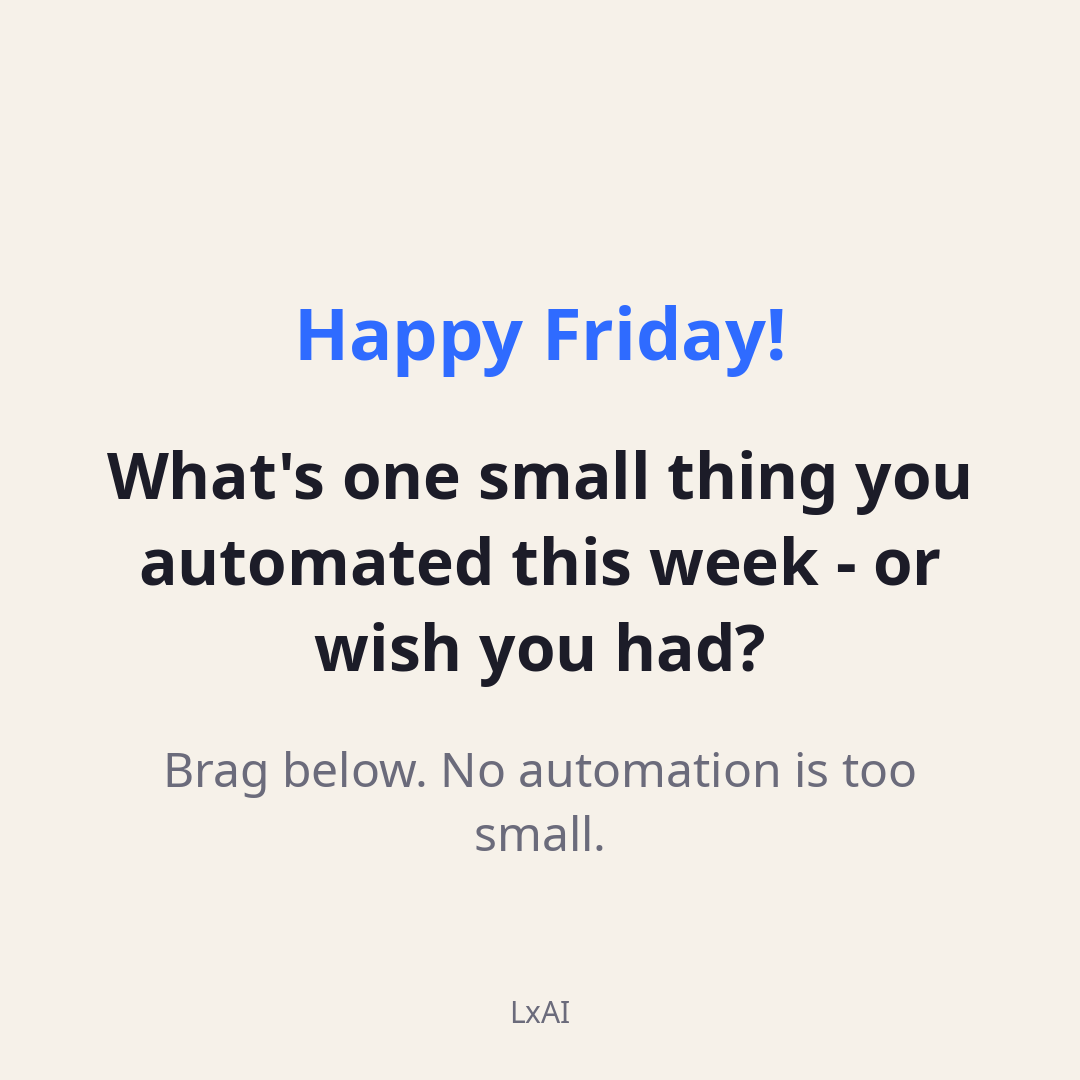
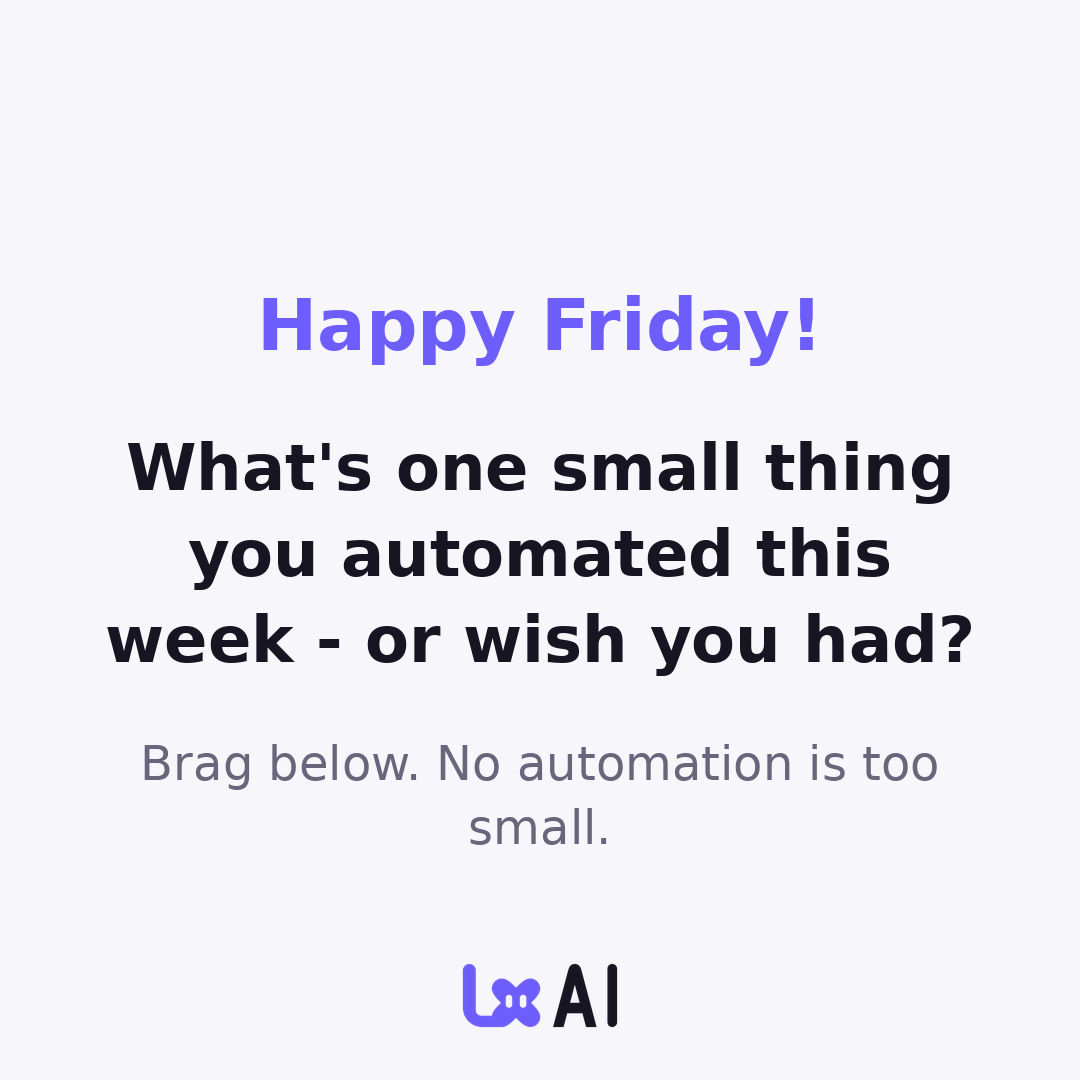
fix(social): rebuild Week-1 visuals with approved LxAI Fuse brand kit (LXA-131)

diff --git a/lxai/instagram/week1/gen_visuals.py b/lxai/instagram/week1/gen_visuals.py
@@ -1,28 +1,70 @@
 #!/usr/bin/env python3
-"""Generate Week-1 draft visual assets for @l.x.ai per the approved specs
-in LXA-126 'week-1-drafts' document. Drafts for board review only."""
-import os
-from PIL import Image, ImageDraw, ImageFont
+"""Regenerate the approved Week-1 draft visuals for @l.x.ai using the
+approved LxAI Fuse brand kit (design/lxai-brand-kit).
 
-OUT = os.environ.get("PAPERCLIP_RUN_SCRATCH_DIR", "/tmp/opencode") + "/visuals"
+Copy, layouts and canvas sizes stay exactly as approved in LXA-126
+'week-1-drafts'. Only the identity changes: supplied logo artwork plus the
+approved Fuse palette replace the placeholder wordmark and blue accent.
+
+Brand rules applied (from design/lxai-brand-kit/docs/brand-guidelines.md):
+  - logo artwork is used as supplied (never redrawn), scaled uniformly
+  - colour logo on White/Paper, white logo on solid Violet, dark logo on Ink
+  - body copy is Ink on light backgrounds; Violet is reserved for the logo
+    and large headings (Violet-on-Paper is 4.194:1)
+  - White-on-Violet stays at full opacity (4.509:1)
+  - the supplied canvases carry their own clear space; no text is placed
+    inside the logo area
+"""
+import os
+from PIL import Image
+
+SCRATCH = os.environ.get("PAPERCLIP_RUN_SCRATCH_DIR", "/tmp/opencode")
+OUT = SCRATCH + "/visuals-brand"
+BRAND = os.environ.get(
+    "LXAI_BRANDKIT",
+    "/home/x/work/startup/lxai/design/lxai-brand-kit/digital/png",
+)
 os.makedirs(OUT, exist_ok=True)
 
-BG = (246, 241, 233)        # warm off-white
-INK = (28, 28, 40)          # near-black ink
-MUTED = (107, 107, 123)
-ACCENT = (47, 107, 255)     # electric blue
-ACCENT_SOFT = (230, 237, 255)
-PANEL = (255, 252, 247)
+# ---- approved Fuse palette -------------------------------------------------
+PAPER = (247, 246, 251)   # #F7F6FB
+INK = (24, 21, 34)        # #181522
+VIOLET = (109, 94, 252)   # #6D5EFC
+LILAC = (169, 154, 255)   # #A99AFF
+LILAC_SOFT = (231, 228, 254)  # tint of Dark Lilac for quiet option fields
+WHITE = (255, 255, 255)
+MUTED = (105, 101, 122)   # quiet label grey derived from Ink
+LINE_SOFT = (226, 224, 238)
+PANEL_EDGE = LILAC
 
-BOLD = "/usr/share/fonts/truetype/noto/NotoSans-Bold.ttf"
-REG = "/usr/share/fonts/truetype/noto/NotoSans-Regular.ttf"
-if not os.path.exists(BOLD):
+try:
+    from PIL import ImageDraw, ImageFont
     BOLD = "/usr/share/fonts/truetype/dejavu/DejaVuSans-Bold.ttf"
     REG = "/usr/share/fonts/truetype/dejavu/DejaVuSans.ttf"
+except ImportError:  # pragma: no cover
+    raise
 
 def F(size, bold=True):
     return ImageFont.truetype(BOLD if bold else REG, size)
 
+LOGOS = {
+    "color": BRAND + "/lxai-horizontal-color-2048.png",
+    "white": BRAND + "/lxai-horizontal-white-2048.png",
+    "dark": BRAND + "/lxai-horizontal-dark-2048.png",
+}
+LOGO_RATIO = 2048 / 1008.0
+
+def paste_logo(img, variant, width, cx, cy):
+    """Place supplied horizontal logo, centred on (cx, cy), at `width` px."""
+    logo = Image.open(LOGOS[variant]).convert("RGBA")
+    h = int(round(width / LOGO_RATIO))
+    logo = logo.resize((int(width), h), Image.LANCZOS)
+    x = int(cx - width / 2)
+    y = int(cy - h / 2)
+    img.alpha_composite(logo, (x, y))
+    return y + h
+
+# ---- text helpers ----------------------------------------------------------
 def wrap(draw, text, font, max_w):
     words, lines, cur = text.split(), [], ""
     for w in words:
@@ -35,54 +77,42 @@ def wrap(draw, text, font, max_w):
     if cur: lines.append(cur)
     return lines
 
-def draw_lines(draw, lines, font, cx, y, fill, line_gap=1.25, anchor_center=True):
+def draw_lines(draw, lines, font, cx, y, fill, line_gap=1.25):
     for ln in lines:
         w = draw.textlength(ln, font=font)
-        x = cx - w/2 if anchor_center else cx
-        draw.text((x, y), ln, font=font, fill=fill)
+        draw.text((cx - w / 2, y), ln, font=font, fill=fill)
         y += int(font.size * line_gap)
     return y
 
 def centered_block(draw, text, font, cx, cy, max_w, fill, line_gap=1.25):
     lines = wrap(draw, text, font, max_w)
     total = int(font.size * line_gap * len(lines))
-    return draw_lines(draw, lines, font, cx, cy - total/2, fill, line_gap)
+    return draw_lines(draw, lines, font, cx, cy - total / 2, fill, line_gap)
+
+def canvas(w, h, bg):
+    return Image.new("RGBA", (w, h), bg + (255,))
 
 def save(img, name):
+    rgb = img.convert("RGB")
     p = f"{OUT}/{name}"
-    img.save(p, "PNG")
-    print("wrote", p, img.size)
+    rgb.save(p, "PNG")
+    print("wrote", p, rgb.size)
 
 # ---------------------------------------------------------------- Mon hero
 def mon_hero():
-    img = Image.new("RGB", (1080, 1350), BG)
+    img = canvas(1080, 1350, PAPER)
     d = ImageDraw.Draw(img)
-    # top: small eyebrow
     eb = F(34, False)
     t = "YOUR AI INTEGRATOR"
     w = d.textlength(t, font=eb)
-    d.text(((1080-w)/2, 300), t, font=eb, fill=MUTED)
-    # wordmark centered with bolt mark
-    wm = F(190)
-    t = "LxAI"
-    w = d.textlength(t, font=wm)
-    mark = 130
-    total = w + 34 + mark
-    x = (1080 - total)/2
-    y = 430
-    # lightning bolt (polygon) in accent
-    bx = x + w + 34
-    by = y + 30
-    pts = [(bx+55,by), (bx+8,by+120), (bx+58,by+120), (bx+28,by+215), (bx+112,by+88), (bx+62,by+88), (bx+100,by)]
-    d.polygon(pts, fill=ACCENT)
-    d.text((x, y), t, font=wm, fill=INK)
-    # bottom one-liner
-    ol = F(64)
+    d.text(((1080 - w) / 2, 320), t, font=eb, fill=MUTED)
+    paste_logo(img, "color", 620, 540, 540)
+    ol = F(60)
     lines = wrap(d, "We connect your tools so you don't have to.", ol, 880)
-    yb = 1350 - 140 - int(ol.size*1.3*len(lines))
+    yb = 1350 - 170 - int(ol.size * 1.3 * len(lines))
     draw_lines(d, lines, ol, 540, yb, INK, 1.3)
-    # accent bar under it
-    d.rectangle([540-60, yb + int(ol.size*1.3*len(lines)) + 26, 540+60, yb + int(ol.size*1.3*len(lines)) + 38], fill=ACCENT)
+    yend = yb + int(ol.size * 1.3 * len(lines)) + 26
+    d.rectangle([540 - 60, yend, 540 + 60, yend + 12], fill=VIOLET)
     save(img, "w1-mon-hero-1080x1350.png")
 
 # ---------------------------------------------------------- Tue carousel
@@ -99,170 +129,150 @@ SLIDES = [
 def tue_carousel():
     for i, (text, tag) in enumerate(SLIDES, 1):
         cta = tag == "cta"
-        img = Image.new("RGB", (1080, 1080), ACCENT if cta else BG)
+        img = canvas(1080, 1080, VIOLET if cta else PAPER)
         d = ImageDraw.Draw(img)
         if cta:
             body = F(88)
             lines = []
             for part in text.split("\n"):
                 lines += wrap(d, part, body, 860)
-            y = 540 - int(body.size*1.3*len(lines)/2)
-            draw_lines(d, lines, body, 540, y, (255,255,255), 1.3)
-            small = F(40, False)
-            t = "LxAI"
-            w = d.textlength(t, font=small)
-            d.text(((1080-w)/2, 1080-110), t, font=small, fill=(255,255,255))
+            y = 500 - int(body.size * 1.3 * len(lines) / 2)
+            draw_lines(d, lines, body, 540, y, WHITE, 1.3)
+            paste_logo(img, "white", 240, 540, 940)
         else:
             if tag:
                 nf = F(150)
-                d.text((80, 64), tag, font=nf, fill=ACCENT_SOFT if False else (203, 213, 245))
+                d.text((80, 56), tag, font=nf, fill=LILAC_SOFT if False else LILAC)
             body = F(72)
             centered_block(d, text, body, 540, 560, 880, INK, 1.35)
-            # slide counter + brand
             cf = F(30, False)
-            cnt = f"{i} / 7"
-            d.text((80, 1080-90), cnt, font=cf, fill=MUTED)
-            t = "LxAI"
-            w = d.textlength(t, font=cf)
-            d.text((1080-80-w, 1080-90), t, font=cf, fill=MUTED)
+            d.text((80, 1080 - 84), f"{i} / 7", font=cf, fill=MUTED)
+            paste_logo(img, "color", 180, 1080 - 80 - 90, 1080 - 84 + 8)
         save(img, f"w1-tue-slide-{i:02d}-1080x1080.png")
 
 # -------------------------------------------------------------- Sat meme
 def sat_meme():
-    img = Image.new("RGB", (1080, 1080), BG)
+    img = canvas(1080, 1080, PAPER)
     d = ImageDraw.Draw(img)
     m = 40
-    pw = (1080 - 3*m) // 2
+    pw = (1080 - 3 * m) // 2
     ph = 730
     # panel 1: tired person at desk
     x1 = m
-    d.rounded_rectangle([x1, m, x1+pw, m+ph], 28, fill=PANEL, outline=(226, 219, 206), width=3)
-    cx = x1 + pw/2
-    # desk
-    d.rectangle([x1+60, m+ph-190, x1+pw-60, m+ph-172], fill=(196, 186, 168))
-    d.rectangle([x1+90, m+ph-172, x1+112, m+ph-60], fill=(196, 186, 168))
-    d.rectangle([x1+pw-112, m+ph-172, x1+pw-90, m+ph-60], fill=(196, 186, 168))
-    # laptop
-    d.rounded_rectangle([x1+pw/2-110, m+ph-310, x1+pw/2+110, m+ph-190], 10, fill=(214, 220, 232), outline=(150,158,175), width=3)
-    # head
-    hx, hy, hr = cx, m+230, 92
-    # body (torso)
-    d.rounded_rectangle([hx-70, hy+hr-10, hx+70, hy+hr+150], 30, fill=(158, 180, 214))
-    d.ellipse([hx-hr, hy-hr, hx+hr, hy+hr], fill=(250, 226, 200), outline=(60,60,70), width=4)
-    # tired eyes: half-lidded
-    d.line([hx-46, hy-16, hx-16, hy-16], fill=(60,60,70), width=6)
-    d.line([hx+16, hy-16, hx+46, hy-16], fill=(60,60,70), width=6)
-    d.ellipse([hx-40, hy-14, hx-22, hy+2], fill=(60,60,70))
-    d.ellipse([hx+22, hy-14, hx+40, hy+2], fill=(60,60,70))
-    # flat mouth + sweat drop
-    d.line([hx-30, hy+48, hx+30, hy+48], fill=(60,60,70), width=6)
-    d.polygon([(hx+70, hy-70), (hx+58, hy-40), (hx+82, hy-40)], fill=(120, 170, 240))
+    d.rounded_rectangle([x1, m, x1 + pw, m + ph], 28, fill=WHITE,
+                        outline=PANEL_EDGE, width=3)
+    cx = x1 + pw / 2
+    d.rectangle([x1 + 60, m + ph - 190, x1 + pw - 60, m + ph - 172], fill=LILAC_SOFT)
+    d.rectangle([x1 + 90, m + ph - 172, x1 + 112, m + ph - 60], fill=LILAC_SOFT)
+    d.rectangle([x1 + pw - 112, m + ph - 172, x1 + pw - 90, m + ph - 60], fill=LILAC_SOFT)
+    d.rounded_rectangle([x1 + pw / 2 - 110, m + ph - 310, x1 + pw / 2 + 110,
+                         m + ph - 190], 10, fill=LILAC_SOFT, outline=LILAC, width=3)
+    hx, hy, hr = cx, m + 230, 92
+    d.rounded_rectangle([hx - 70, hy + hr - 10, hx + 70, hy + hr + 150], 30, fill=LILAC)
+    d.ellipse([hx - hr, hy - hr, hx + hr, hy + hr], fill=WHITE, outline=INK, width=4)
+    d.line([hx - 46, hy - 16, hx - 16, hy - 16], fill=INK, width=6)
+    d.line([hx + 16, hy - 16, hx + 46, hy - 16], fill=INK, width=6)
+    d.ellipse([hx - 40, hy - 14, hx - 22, hy + 2], fill=INK)
+    d.ellipse([hx + 22, hy - 14, hx + 40, hy + 2], fill=INK)
+    d.line([hx - 30, hy + 48, hx + 30, hy + 48], fill=INK, width=6)
+    d.polygon([(hx + 70, hy - 70), (hx + 58, hy - 40), (hx + 82, hy - 40)], fill=LILAC)
     cap1 = F(36)
-    lines = wrap(d, "me, moving data between apps by hand (47th time this week)", cap1, pw-60)
-    draw_lines(d, lines, cap1, cx, m+ph+30, INK, 1.3)
+    lines = wrap(d, "me, moving data between apps by hand (47th time this week)", cap1, pw - 60)
+    draw_lines(d, lines, cap1, cx, m + ph + 30, INK, 1.3)
     # panel 2: shiny unused automation button
-    x2 = 2*m + pw
-    d.rounded_rectangle([x2, m, x2+pw, m+ph], 28, fill=PANEL, outline=(226, 219, 206), width=3)
-    cx2 = x2 + pw/2
+    x2 = 2 * m + pw
+    d.rounded_rectangle([x2, m, x2 + pw, m + ph], 28, fill=WHITE,
+                        outline=PANEL_EDGE, width=3)
+    cx2 = x2 + pw / 2
     br = 185
     by = m + 320
-    # dust arcs
-    for r in (br+46, br+78):
-        d.arc([cx2-r, by-r, cx2+r, by+r], 200, 340, fill=(200, 192, 176), width=5)
-    d.ellipse([cx2-br, by-br, cx2+br, by+br], fill=ACCENT)
-    d.ellipse([cx2-br+26, by-br+26, cx2+br-26, by+br-26], outline=(255,255,255), width=5)
+    for r in (br + 46, br + 78):
+        d.arc([cx2 - r, by - r, cx2 + r, by + r], 200, 340, fill=LILAC_SOFT, width=5)
+    d.ellipse([cx2 - br, by - br, cx2 + br, by + br], fill=VIOLET)
+    d.ellipse([cx2 - br + 26, by - br + 26, cx2 + br - 26, by + br - 26],
+              outline=WHITE, width=5)
     bl = F(44)
     t = "automation"
     w = d.textlength(t, font=bl)
-    d.text((cx2-w/2, by-34), t, font=bl, fill=(255,255,255))
-    # dust pile
-    d.ellipse([cx2-br-30, by+br-16, cx2-40, by+br+18], fill=(222, 214, 198))
-    d.ellipse([cx2+20, by+br-10, cx2+br+26, by+br+20], fill=(222, 214, 198))
+    d.text((cx2 - w / 2, by - 34), t, font=bl, fill=WHITE)
+    d.ellipse([cx2 - br - 30, by + br - 16, cx2 - 40, by + br + 18], fill=LILAC_SOFT)
+    d.ellipse([cx2 + 20, by + br - 10, cx2 + br + 26, by + br + 20], fill=LILAC_SOFT)
     cap2 = F(36)
-    lines = wrap(d, "the button that's been there the whole time", cap2, pw-60)
-    draw_lines(d, lines, cap2, cx2, m+ph+30, INK, 1.3)
-    # brand strip
-    bf = F(30, False)
-    t = "LxAI"
-    w = d.textlength(t, font=bf)
-    d.text(((1080-w)/2, 1080-64), t, font=bf, fill=MUTED)
+    lines = wrap(d, "the button that's been there the whole time", cap2, pw - 60)
+    draw_lines(d, lines, cap2, cx2, m + ph + 30, INK, 1.3)
+    paste_logo(img, "color", 180, 540, 1080 - 56)
     save(img, "w1-sat-meme-1080x1080.png")
 
 # ----------------------------------------------------------- Sun story
 def sun_story():
-    img = Image.new("RGB", (1080, 1920), ACCENT)
+    img = canvas(1080, 1920, VIOLET)
     d = ImageDraw.Draw(img)
-    # soft card
-    d.rounded_rectangle([70, 330, 1010, 1590], 48, fill=(255, 255, 255))
-    t = "LxAI"
-    bf = F(44)
-    w = d.textlength(t, font=bf)
-    d.text(((1080-w)/2, 170), t, font=bf, fill=(255,255,255))
+    d.rounded_rectangle([70, 330, 1010, 1590], 48, fill=WHITE)
+    paste_logo(img, "white", 240, 540, 180)
     q = F(76)
     centered_block(d, "Which app do you open first every morning?", q, 540, 560, 800, INK, 1.3)
     opts = ["Email", "Chat (Slack / Teams...)", "Calendar", "Coffee first"]
-    of = F(58)
     y = 830
     for o in opts:
-        d.rounded_rectangle([180, y, 900, y+120], 24, fill=ACCENT_SOFT)
+        of = F(58)
+        while d.textlength(o, font=of) > 720 - 48:  # keep 24px padding in pill
+            of = F(of.size - 2)
+        d.rounded_rectangle([180, y, 900, y + 120], 24, fill=LILAC_SOFT)
         w = d.textlength(o, font=of)
-        d.text(((1080-w)/2, y+28), o, font=of, fill=INK)
+        d.text(((1080 - w) / 2, y + (120 - of.size) / 2 - 4), o, font=of, fill=INK)
         y += 150
     hint = F(36, False)
     t = "Results land in Monday's post"
     w = d.textlength(t, font=hint)
-    d.text(((1080-w)/2, 1660), t, font=hint, fill=(255,255,255))
+    d.text(((1080 - w) / 2, 1660), t, font=hint, fill=WHITE)
     save(img, "w1-sun-story-1080x1920.png")
 
 # ------------------------------------------------- Wed fallback diagram
 def wed_diagram():
-    img = Image.new("RGB", (1080, 1080), BG)
+    img = canvas(1080, 1080, PAPER)
     d = ImageDraw.Draw(img)
     t = F(54)
     s = "How every integration starts"
     w = d.textlength(s, font=t)
-    d.text(((1080-w)/2, 130), s, font=t, fill=INK)
+    d.text(((1080 - w) / 2, 130), s, font=t, fill=INK)
     steps = [("Map", "where data lives now,\nand where it needs to go"),
              ("Build", "connect the steps,\none at a time"),
              ("Test", "prove it works\nbefore it ships")]
     bw, bh = 260, 300
-    gap = (1080 - 3*bw - 160) / 2
+    gap = (1080 - 3 * bw - 160) / 2
     y = 380
     for i, (title, sub) in enumerate(steps):
-        x = 80 + i*(bw+gap)
-        d.rounded_rectangle([x, y, x+bw, y+bh], 28, fill=PANEL, outline=ACCENT, width=4)
+        x = 80 + i * (bw + gap)
+        d.rounded_rectangle([x, y, x + bw, y + bh], 28, fill=WHITE,
+                            outline=VIOLET, width=4)
         tf = F(56)
         w = d.textlength(title, font=tf)
-        d.text((x+(bw-w)/2, y+46), title, font=tf, fill=ACCENT)
+        d.text((x + (bw - w) / 2, y + 46), title, font=tf, fill=VIOLET)
         sf = F(27, False)
         lines = []
         for part in sub.split("\n"):
-            lines += wrap(d, part, sf, bw-44)
-        draw_lines(d, lines, sf, x+bw/2, y+140, INK, 1.3)
+            lines += wrap(d, part, sf, bw - 44)
+        draw_lines(d, lines, sf, x + bw / 2, y + 140, INK, 1.3)
         if i < 2:
-            ax = x + bw + gap/2
-            d.line([ax-26, y+bh/2, ax+26, y+bh/2], fill=MUTED, width=8)
-            d.polygon([(ax+26, y+bh/2-18), (ax+26, y+bh/2+18), (ax+48, y+bh/2)], fill=MUTED)
-    cf = F(30, False)
-    t = "LxAI"
-    w = d.textlength(t, font=cf)
-    d.text(((1080-w)/2, 1080-90), t, font=cf, fill=MUTED)
+            ax = x + bw + gap / 2
+            d.line([ax - 26, y + bh / 2, ax + 26, y + bh / 2], fill=MUTED, width=8)
+            d.polygon([(ax + 26, y + bh / 2 - 18), (ax + 26, y + bh / 2 + 18),
+                       (ax + 48, y + bh / 2)], fill=MUTED)
+    paste_logo(img, "color", 180, 540, 1080 - 84)
     save(img, "w1-wed-diagram-fallback-1080x1080.png")
 
 # ------------------------------------------------- Fri fallback card
 def fri_card():
-    img = Image.new("RGB", (1080, 1080), BG)
+    img = canvas(1080, 1080, PAPER)
     d = ImageDraw.Draw(img)
     t = F(72)
-    centered_block(d, "Happy Friday!", t, 540, 330, 900, ACCENT, 1.3)
+    centered_block(d, "Happy Friday!", t, 540, 330, 900, VIOLET, 1.3)
     q = F(64)
-    centered_block(d, "What's one small thing you automated this week - or wish you had?", q, 540, 560, 880, INK, 1.35)
+    centered_block(d, "What's one small thing you automated this week - or wish you had?",
+                   q, 540, 560, 880, INK, 1.35)
     s = F(48, False)
     centered_block(d, "Brag below. No automation is too small.", s, 540, 800, 800, MUTED, 1.35)
-    cf = F(30, False)
-    t = "LxAI"
-    w = d.textlength(t, font=cf)
-    d.text(((1080-w)/2, 1080-90), t, font=cf, fill=MUTED)
+    paste_logo(img, "color", 180, 540, 1080 - 84)
     save(img, "w1-fri-fallback-1080x1080.png")
 
 mon_hero()
